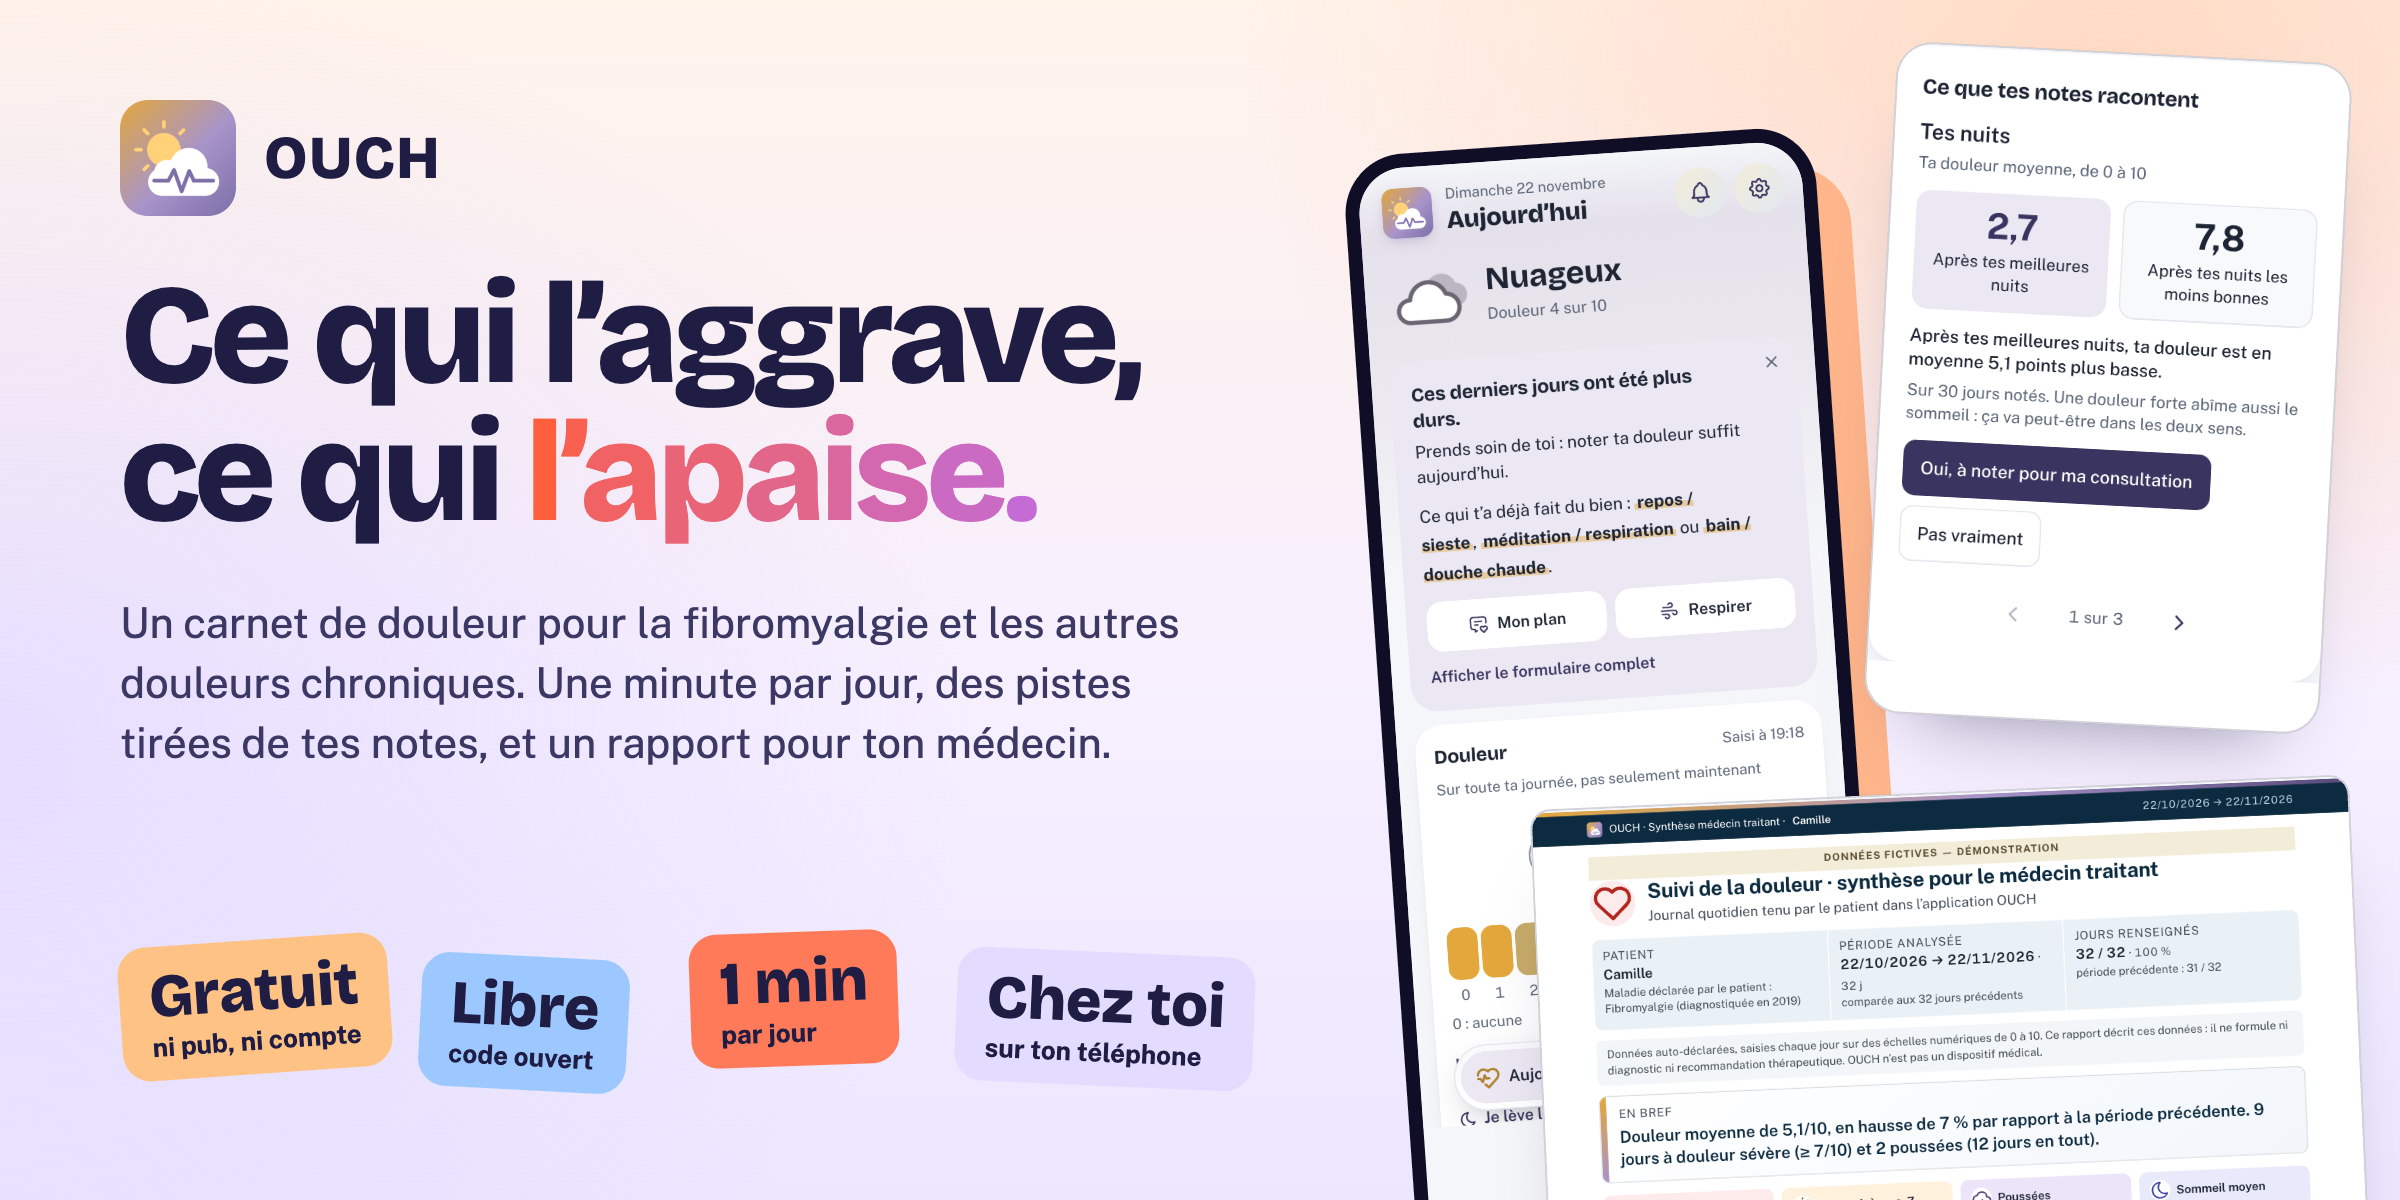
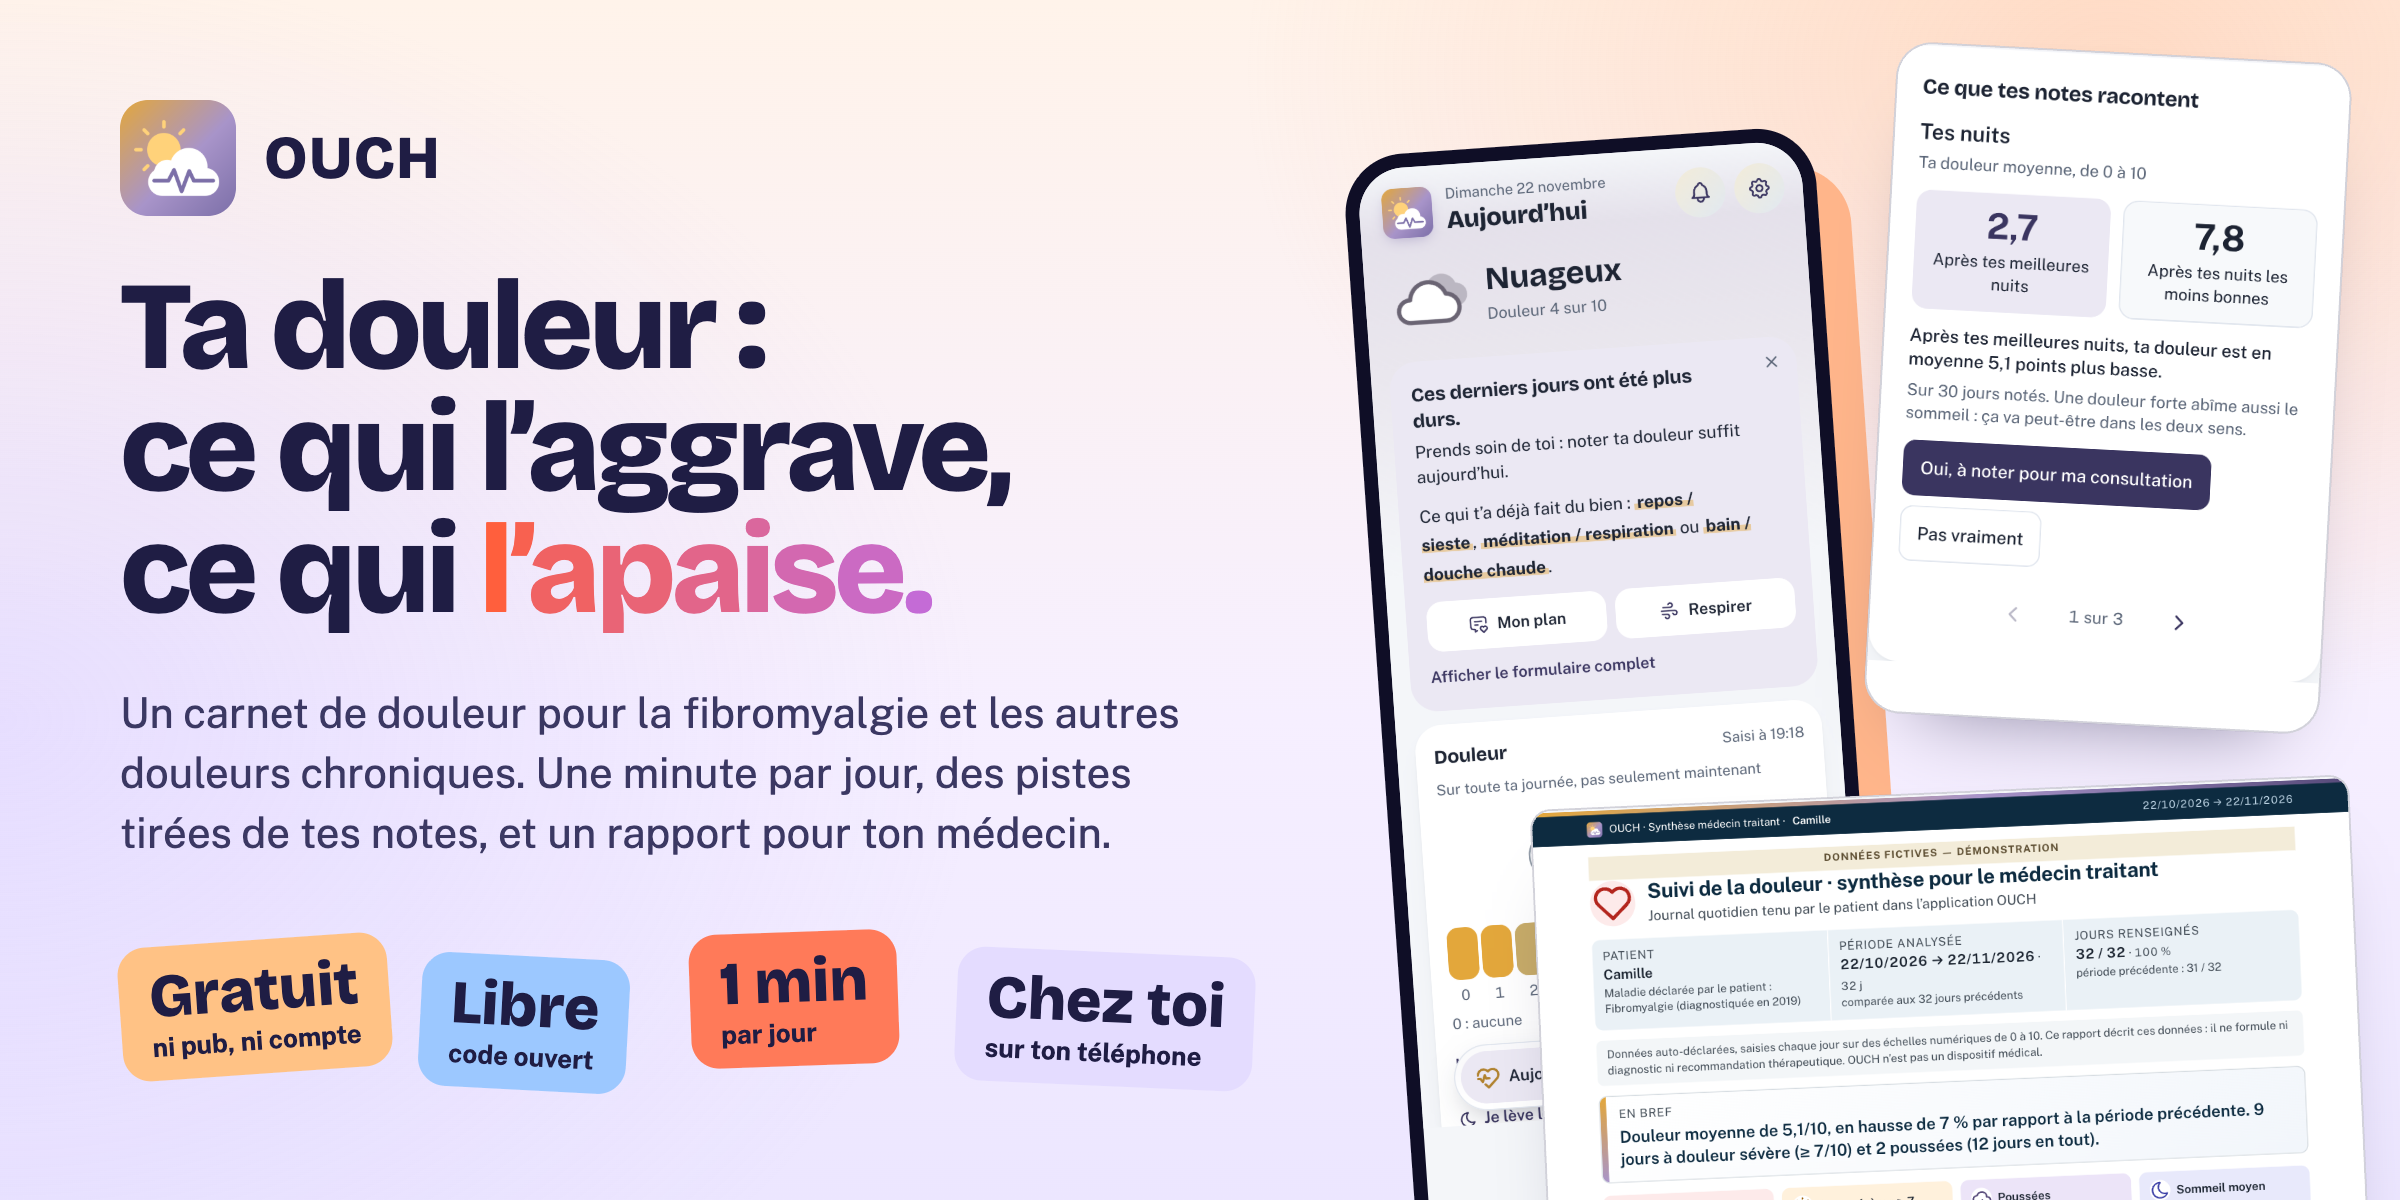
README : « Ta douleur : » en tête du titre de l'image
Le titre de l'image disait « Ce qui l'aggrave, ce qui l'apaise. » sans
dire de quoi : le « l' » restait implicite. Il commence maintenant par
« Ta douleur : » (« Your pain: »), comme sur la plaquette patients, sur
trois lignes. Le reste de l'image ne change pas.

Changed region(s): [[0.0312, 0.2158, 0.5, 0.7092]]

diff --git a/CHANGELOG.md b/CHANGELOG.md
@@ -10,7 +10,7 @@ Chaque version est aussi une [release GitHub](https://github.com/maxauvy/OUCH/re
 - **Documents en « Aube » pour tous les flyers.** Le flyer A5 et la plaquette A4 pour les patients, et les flyers « Lire un rapport » A5 et A4 pour les soignants, existent aussi aux couleurs de l'aube du flyer A4 Aube (peu d'encre, un grand titre, des images inclinées, des panneaux blancs), en français et en anglais. Les textes sont ceux des versions actuelles, qui ne changent pas.
 
 ### Modifié
-- **L'image du README passe en « Aube ».** Fond d'aube, « Ce qui l'aggrave, ce qui l'apaise. » en Bricolage avec les derniers mots du corail au violet, le téléphone, une piste et le rapport, et quatre pastilles (gratuit, libre, 1 min, chez toi), en français et en anglais.
+- **L'image du README passe en « Aube ».** Fond d'aube, « Ta douleur : ce qui l'aggrave, ce qui l'apaise. » en Bricolage avec les derniers mots du corail au violet, le téléphone, une piste et le rapport, et quatre pastilles (gratuit, libre, 1 min, chez toi), en français et en anglais.
 - **Les guides, le diaporama, la plaquette soignants, « Lire un rapport » et la note méthodologique passent en « Aube ».** Les mêmes couleurs que les flyers sur toutes les pages : titres en Bricolage, petits intitulés en corail, encadrés pêche et lilas, une lueur d'aube en haut de page à la place de la bande en dégradé, le dernier mot du titre du corail au violet. Les guides et le diaporama ont une page de garde en aube, les autres documents un en-tête d'aube sur leur première page. Les textes et le nombre de pages ne changent pas.
 - **Soulager prend les couleurs et le ciel de l'app, avec l'ami du jour.** Le personnage des exercices est désormais celui de la vue enfant : un soleil quand la journée est facile, un nuage doux entre les deux, un nuage qui se repose les yeux fermés les jours durs (jamais de pluie ni d'éclair pendant un exercice), et un soleil avec quelques nuages tant que rien n'est noté. « Respirer lentement » montre un soleil qui se lève dans le galet quand tu inspires et redescend quand tu souffles. Les étapes de « Relâcher le corps » et du « Geste doux » passent en plein écran calme : l'ami sur le ciel de la page, une phrase, deux ronds pour avancer, et « Pause auto » en pastille qui compte les secondes. Le minuteur d'un geste devient un soleil qui traverse un arc de ciel, la fin d'un exercice est plus grande et plus contrastée (l'ami du jour est un quatrième dessin de fin), le ciel reste en haut des exercices, et les tuiles « Relâcher » et « Geste doux » passent au lilas et à l'ambre. Rien ne bouge si le téléphone demande de réduire les animations.
 - **Mode démo : une étiquette « Démo » sur la barre d'onglets, à la place de la pastille.** La pastille « Mode démo · données fictives » flottait au-dessus de la barre et cachait le bas de chaque page, dont « Mise à jour disponible · Recharger ». Une petite étiquette « Démo » est maintenant posée sur le bord gauche de la barre, au même endroit quel que soit l'onglet. La toucher ouvre une bulle : les données sont fictives, ton journal n'est pas touché, et « Quitter la démo ». Toucher ailleurs (un onglet aussi) ou Échap la referme. Pendant la visite guidée, elle n'est pas là, comme la pastille avant elle.
